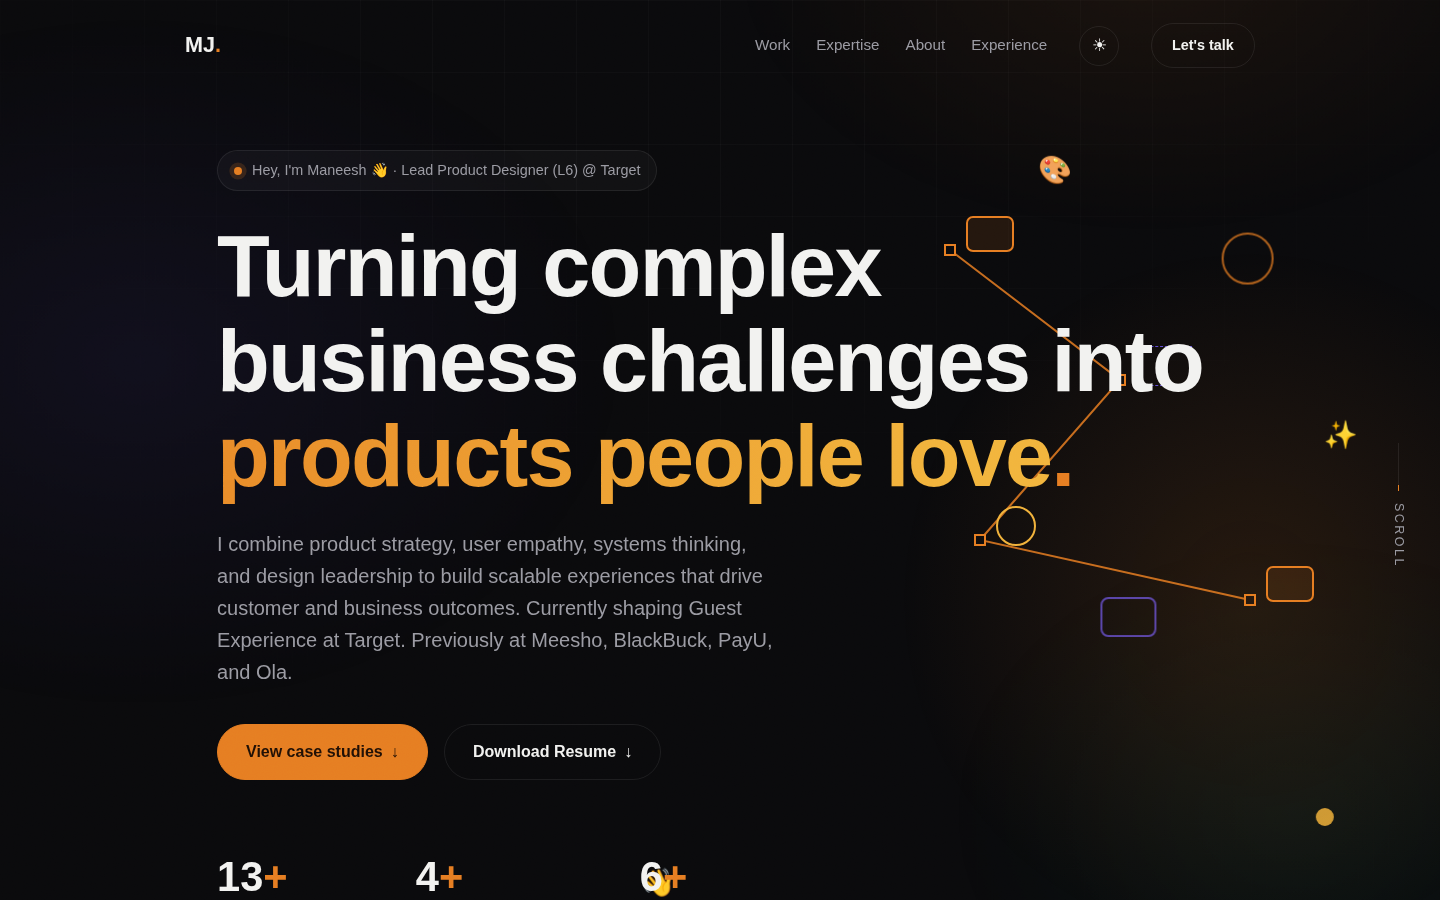
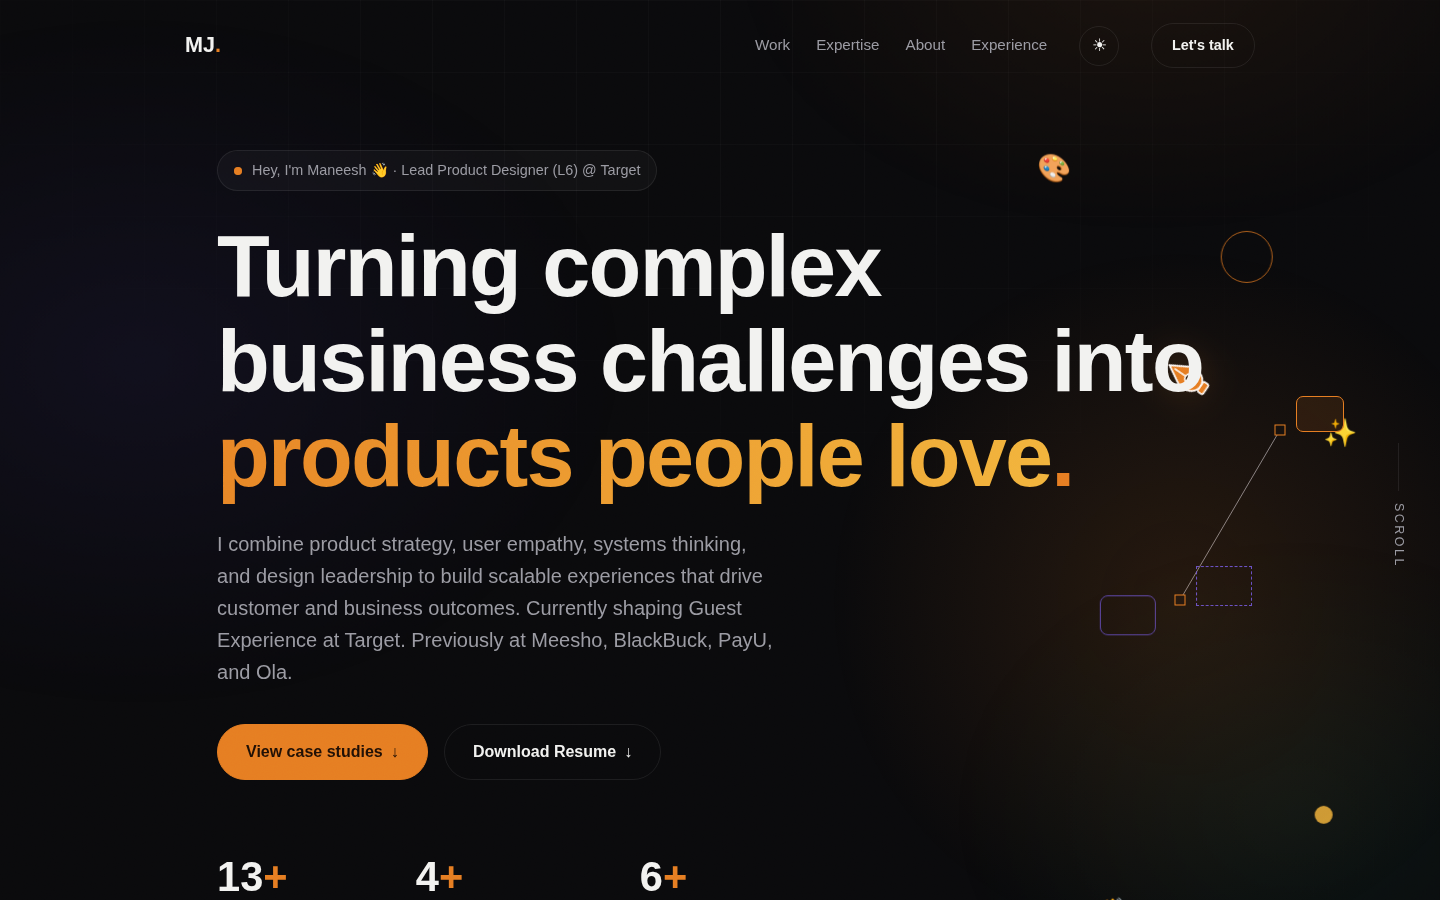
Hero polish: 10 o'clock pen angle, pencil-grey draw lines, thinner outlines, no content overlap, mobile nav fixes
- Floating nib rotated tip-to-10-o'clock with subtle wiggle
- Draw line is pencil grey (#8f8f97 dark / #46464d light), 1px
- All decorative outlines halved in weight
- Floaters shown only on 1360px+ screens and kept in the empty right zone;
  wave emoji moved out of the stats area; drawing ignores clicks on text
- Mobile: tighter nav gap and padding, smaller theme toggle and badge

https://claude.ai/code/session_01CrvKz3eqMyGA3YrXnTVdKT

diff --git a/maneesh-portfolio-standalone.html b/maneesh-portfolio-standalone.html
@@ -679,6 +679,9 @@ img { max-width: 100%; display: block; }
   }
   .nav.menu-open .nav-toggle span:first-child { transform: translateY(4px) rotate(45deg); }
   .nav.menu-open .nav-toggle span:last-child { transform: translateY(-4px) rotate(-45deg); }
+  .nav-inner { gap: 12px; padding: 10px 16px; }
+  .theme-toggle { width: 36px; height: 36px; font-size: 0.95rem; }
+  .hero-badge { font-size: 0.78rem; }
   .hero { padding-top: 130px; }
   .hero-cta .btn, .contact-actions .btn { width: 100%; justify-content: center; }
 }
@@ -821,12 +824,12 @@ html[data-theme="light"] .nav-toggle span { background: var(--text); }
 }
 .fl-circle {
   top: 22%; right: 12%; width: 52px; height: 52px; border-radius: 50%;
-  border: 2.5px solid var(--accent); opacity: 0.75;
+  border: 1.25px solid var(--accent); opacity: 0.75;
   animation-duration: 6.2s;
 }
 .fl-rect {
   top: 58%; right: 20%; width: 56px; height: 40px; border-radius: 8px;
-  border: 2.5px solid var(--violet); transform: rotate(-8deg); opacity: 0.7;
+  border: 1.25px solid var(--violet); transform: rotate(-8deg); opacity: 0.7;
   animation-duration: 7.2s; animation-delay: 0.5s;
 }
 .fl-dot {
@@ -840,13 +843,13 @@ html[data-theme="light"] .nav-toggle span { background: var(--text); }
   filter: drop-shadow(0 8px 18px rgba(230, 126, 34, 0.35));
 }
 @keyframes penWiggle {
-  from { transform: translate(var(--px, 0), calc(var(--py, 0) - 8px)) rotate(-26deg); }
-  to { transform: translate(var(--px, 0), calc(var(--py, 0) + 8px)) rotate(-14deg); }
+  from { transform: translate(var(--px, 0), calc(var(--py, 0) - 8px)) rotate(116deg); }
+  to { transform: translate(var(--px, 0), calc(var(--py, 0) + 8px)) rotate(126deg); }
 }
 .fl-emoji { font-size: 1.7rem; }
 .fl-emoji.e1 { top: 14%; right: 26%; animation-duration: 6.8s; animation-delay: 0.3s; }
 .fl-emoji.e2 { top: 40%; right: 6%; animation-duration: 5.8s; animation-delay: 0.9s; }
-.fl-emoji.e3 { bottom: 12%; left: 44%; animation-duration: 7.4s; animation-delay: 0.6s; }
+.fl-emoji.e3 { bottom: 9%; right: 22%; animation-duration: 7.4s; animation-delay: 0.6s; }
 
 /* ── Click-to-draw canvas ── */
 .hero {
@@ -857,24 +860,28 @@ html[data-theme="light"] .nav-toggle span { background: var(--text); }
   position: absolute; inset: 0; pointer-events: none; z-index: 0;
   width: 100%; height: 100%; overflow: visible;
 }
-.draw-line { fill: none; stroke: var(--accent); stroke-width: 2; opacity: 0.85; }
+.draw-line { fill: none; stroke: #8f8f97; stroke-width: 1; opacity: 0.9; }
+html[data-theme="light"] .draw-line { stroke: #46464d; }
 .draw-anchor {
-  fill: var(--bg); stroke: var(--accent); stroke-width: 2;
+  fill: var(--bg); stroke: var(--accent); stroke-width: 1;
   transform-box: fill-box; transform-origin: center;
   animation: drawPop 0.3s var(--ease);
 }
 html[data-theme="light"] .draw-anchor { fill: #f7f7f8; }
 @keyframes drawPop { from { transform: scale(0); } to { transform: scale(1); } }
 .draw-shape { position: absolute; display: block; animation: drawPop 0.35s var(--ease); }
-.ds-rect { width: 48px; height: 36px; background: var(--accent-soft); border: 2px solid var(--accent); border-radius: 7px; }
-.ds-frame { width: 56px; height: 40px; border: 1.5px dashed rgba(110, 90, 255, 0.85); }
-.ds-circle { width: 40px; height: 40px; border-radius: 50%; border: 2px solid #f2b53d; }
+.ds-rect { width: 48px; height: 36px; background: var(--accent-soft); border: 1px solid var(--accent); border-radius: 7px; }
+.ds-frame { width: 56px; height: 40px; border: 0.75px dashed rgba(110, 90, 255, 0.85); }
+.ds-circle { width: 40px; height: 40px; border-radius: 50%; border: 1px solid #f2b53d; }
 .draw-hint {
   position: absolute; left: 32px; bottom: 36px; z-index: 1;
   font-size: 0.78rem; font-weight: 500; color: var(--text-dim); opacity: 0.8;
 }
+@media (max-width: 1359px) {
+  .hero-canvasland { display: none; }
+}
 @media (max-width: 860px) {
-  .hero-canvasland, .draw-hint { display: none; }
+  .draw-hint { display: none; }
 }
 .hero-spotlight {
   opacity: 0; transition: opacity 0.6s;
@@ -1483,8 +1490,10 @@ if (heroDraw && drawShapes && heroSection) {
   let pts = [];
   let poly = null;
   let kindIdx = 0;
+  const blankTarget = (e) =>
+    e.target === heroSection || e.target.classList.contains("container");
   heroSection.addEventListener("click", (e) => {
-    if (e.target.closest("a, button") || e.detail > 1) return;
+    if (!blankTarget(e) || e.detail > 1) return;
     const r = heroSection.getBoundingClientRect();
     const x = e.clientX - r.left;
     const y = e.clientY - r.top;
@@ -1509,7 +1518,7 @@ if (heroDraw && drawShapes && heroSection) {
     drawShapes.appendChild(s);
   });
   heroSection.addEventListener("dblclick", (e) => {
-    if (e.target.closest("a, button")) return;
+    if (e.target.closest("a, button, h1, p, ul")) return;
     heroDraw.innerHTML = "";
     drawShapes.innerHTML = "";
     pts = [];

diff --git a/style.css b/style.css
@@ -663,6 +663,9 @@ img { max-width: 100%; display: block; }
   }
   .nav.menu-open .nav-toggle span:first-child { transform: translateY(4px) rotate(45deg); }
   .nav.menu-open .nav-toggle span:last-child { transform: translateY(-4px) rotate(-45deg); }
+  .nav-inner { gap: 12px; padding: 10px 16px; }
+  .theme-toggle { width: 36px; height: 36px; font-size: 0.95rem; }
+  .hero-badge { font-size: 0.78rem; }
   .hero { padding-top: 130px; }
   .hero-cta .btn, .contact-actions .btn { width: 100%; justify-content: center; }
 }
@@ -805,12 +808,12 @@ html[data-theme="light"] .nav-toggle span { background: var(--text); }
 }
 .fl-circle {
   top: 22%; right: 12%; width: 52px; height: 52px; border-radius: 50%;
-  border: 2.5px solid var(--accent); opacity: 0.75;
+  border: 1.25px solid var(--accent); opacity: 0.75;
   animation-duration: 6.2s;
 }
 .fl-rect {
   top: 58%; right: 20%; width: 56px; height: 40px; border-radius: 8px;
-  border: 2.5px solid var(--violet); transform: rotate(-8deg); opacity: 0.7;
+  border: 1.25px solid var(--violet); transform: rotate(-8deg); opacity: 0.7;
   animation-duration: 7.2s; animation-delay: 0.5s;
 }
 .fl-dot {
@@ -824,13 +827,13 @@ html[data-theme="light"] .nav-toggle span { background: var(--text); }
   filter: drop-shadow(0 8px 18px rgba(230, 126, 34, 0.35));
 }
 @keyframes penWiggle {
-  from { transform: translate(var(--px, 0), calc(var(--py, 0) - 8px)) rotate(-26deg); }
-  to { transform: translate(var(--px, 0), calc(var(--py, 0) + 8px)) rotate(-14deg); }
+  from { transform: translate(var(--px, 0), calc(var(--py, 0) - 8px)) rotate(116deg); }
+  to { transform: translate(var(--px, 0), calc(var(--py, 0) + 8px)) rotate(126deg); }
 }
 .fl-emoji { font-size: 1.7rem; }
 .fl-emoji.e1 { top: 14%; right: 26%; animation-duration: 6.8s; animation-delay: 0.3s; }
 .fl-emoji.e2 { top: 40%; right: 6%; animation-duration: 5.8s; animation-delay: 0.9s; }
-.fl-emoji.e3 { bottom: 12%; left: 44%; animation-duration: 7.4s; animation-delay: 0.6s; }
+.fl-emoji.e3 { bottom: 9%; right: 22%; animation-duration: 7.4s; animation-delay: 0.6s; }
 
 /* ── Click-to-draw canvas ── */
 .hero {
@@ -841,24 +844,28 @@ html[data-theme="light"] .nav-toggle span { background: var(--text); }
   position: absolute; inset: 0; pointer-events: none; z-index: 0;
   width: 100%; height: 100%; overflow: visible;
 }
-.draw-line { fill: none; stroke: var(--accent); stroke-width: 2; opacity: 0.85; }
+.draw-line { fill: none; stroke: #8f8f97; stroke-width: 1; opacity: 0.9; }
+html[data-theme="light"] .draw-line { stroke: #46464d; }
 .draw-anchor {
-  fill: var(--bg); stroke: var(--accent); stroke-width: 2;
+  fill: var(--bg); stroke: var(--accent); stroke-width: 1;
   transform-box: fill-box; transform-origin: center;
   animation: drawPop 0.3s var(--ease);
 }
 html[data-theme="light"] .draw-anchor { fill: #f7f7f8; }
 @keyframes drawPop { from { transform: scale(0); } to { transform: scale(1); } }
 .draw-shape { position: absolute; display: block; animation: drawPop 0.35s var(--ease); }
-.ds-rect { width: 48px; height: 36px; background: var(--accent-soft); border: 2px solid var(--accent); border-radius: 7px; }
-.ds-frame { width: 56px; height: 40px; border: 1.5px dashed rgba(110, 90, 255, 0.85); }
-.ds-circle { width: 40px; height: 40px; border-radius: 50%; border: 2px solid #f2b53d; }
+.ds-rect { width: 48px; height: 36px; background: var(--accent-soft); border: 1px solid var(--accent); border-radius: 7px; }
+.ds-frame { width: 56px; height: 40px; border: 0.75px dashed rgba(110, 90, 255, 0.85); }
+.ds-circle { width: 40px; height: 40px; border-radius: 50%; border: 1px solid #f2b53d; }
 .draw-hint {
   position: absolute; left: 32px; bottom: 36px; z-index: 1;
   font-size: 0.78rem; font-weight: 500; color: var(--text-dim); opacity: 0.8;
 }
+@media (max-width: 1359px) {
+  .hero-canvasland { display: none; }
+}
 @media (max-width: 860px) {
-  .hero-canvasland, .draw-hint { display: none; }
+  .draw-hint { display: none; }
 }
 .hero-spotlight {
   opacity: 0; transition: opacity 0.6s;

diff --git a/script.js b/script.js
@@ -209,8 +209,10 @@ if (heroDraw && drawShapes && heroSection) {
   let pts = [];
   let poly = null;
   let kindIdx = 0;
+  const blankTarget = (e) =>
+    e.target === heroSection || e.target.classList.contains("container");
   heroSection.addEventListener("click", (e) => {
-    if (e.target.closest("a, button") || e.detail > 1) return;
+    if (!blankTarget(e) || e.detail > 1) return;
     const r = heroSection.getBoundingClientRect();
     const x = e.clientX - r.left;
     const y = e.clientY - r.top;
@@ -235,7 +237,7 @@ if (heroDraw && drawShapes && heroSection) {
     drawShapes.appendChild(s);
   });
   heroSection.addEventListener("dblclick", (e) => {
-    if (e.target.closest("a, button")) return;
+    if (e.target.closest("a, button, h1, p, ul")) return;
     heroDraw.innerHTML = "";
     drawShapes.innerHTML = "";
     pts = [];
